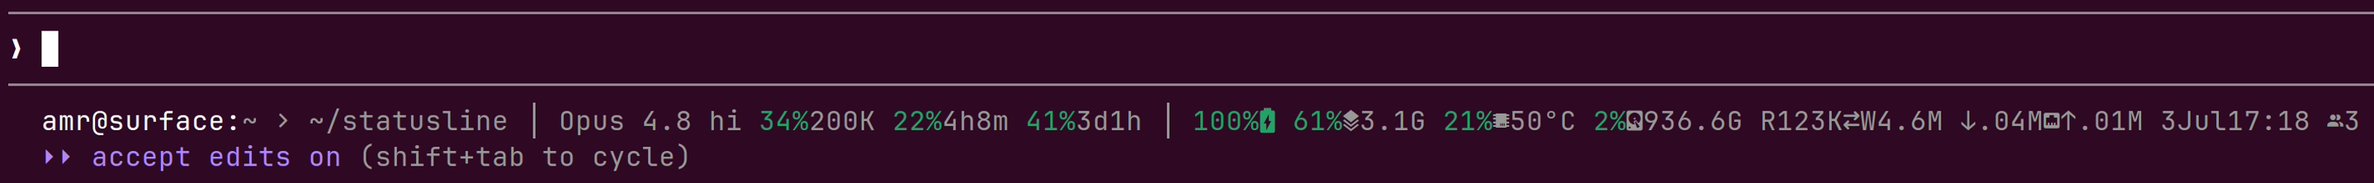
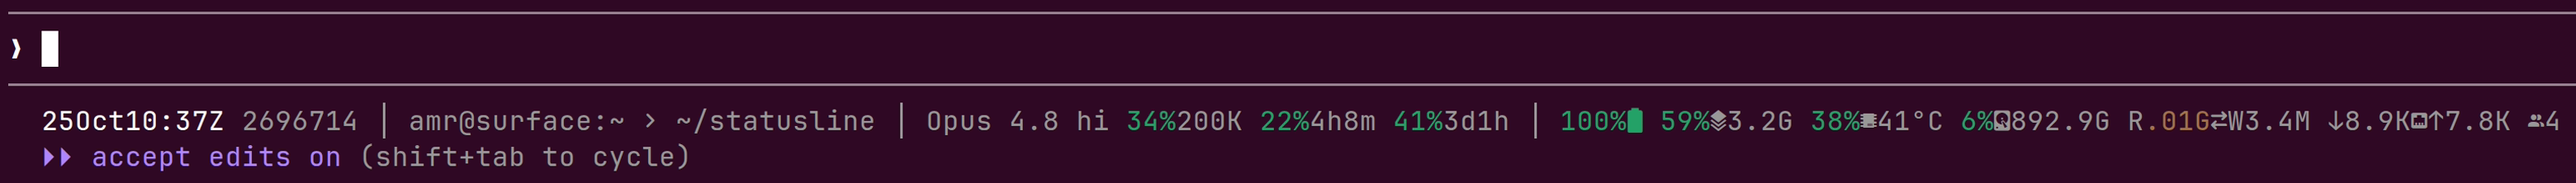
UTC date and Claude's pid lead the line

Changed region(s): [[0.0, 0.5946, 1.0, 0.7297], [0.0, 0.7838, 0.3095, 0.9189], [0.0, 0.1622, 0.0309, 0.3514]]

diff --git a/statusline.c b/statusline.c
@@ -508,6 +508,21 @@ static int rdfirst(const char *path, char *buf, size_t cap) { /* one read() */
     buf[n] = 0;
     return (int)n;
 }
+/* Claude's pid, the number in its cbus box: our parent, or the shell's
+ * parent if Claude ran us through sh -c.                                  */
+static int claude_pid(void) {
+    int p = (int)getppid();
+    char path[40], b[256];
+    snprintf(path, sizeof path, "/proc/%d/comm", p);
+    if (rdfirst(path, b, sizeof b) > 0 &&
+        (!strcmp(b, "sh\n") || !strcmp(b, "bash\n") || !strcmp(b, "dash\n"))) {
+        snprintf(path, sizeof path, "/proc/%d/stat", p);
+        const char *r = rdfirst(path, b, sizeof b) > 0 ? strrchr(b, ')') : NULL;
+        int pp;
+        if (r && sscanf(r, ") %*c %d", &pp) == 1) p = pp;
+    }
+    return p;
+}
 static const char *next_line(const char *p) {
     p = strchr(p, '\n');
     return p ? p + 1 : NULL;
@@ -1514,13 +1529,8 @@ int main(void) {
     }
 
     {
-        time_t tt = time(NULL);
-        struct tm tmv;
-        char dtbuf[32];
-        if (localtime_r(&tt, &tmv) && strftime(dtbuf, sizeof dtbuf, "%-d%b%H:%M", &tmv)) {
+        {
             SYS_SEP();
-            sb_c(&sys_, DIM, "%s", dtbuf);
-            sb_raw(&sys_, " ");
             sb_c(&sys_, DIM, "%s", G->sessions);
             ICON_SEP();
             sb_c(&sys_, DIM, "%d", rates.sessions);
@@ -1539,6 +1549,16 @@ int main(void) {
      * no stdout stdio (avoids its lazy-init ioctl/fcntl and writev)         */
     static const char SEG_SEP[] = " " DIM u8"│" RST " ";
     SB out = {0};
+    {   /* UTC date and Claude's pid lead the line (owner, 2026-10-25) */
+        time_t tt = time(NULL);
+        struct tm tmv;
+        char dtbuf[32];
+        if (gmtime_r(&tt, &tmv) && strftime(dtbuf, sizeof dtbuf, "%-d%b%H:%MZ", &tmv))
+            sb_c(&out, DIM, "%s", dtbuf);
+        sb_raw(&out, " ");
+        sb_c(&out, DIM, "%d", claude_pid());
+        sb_cat(&out, SEG_SEP, sizeof SEG_SEP - 1);
+    }
     sb_cat(&out, dirs.buf, dirs.len);
     sb_cat(&out, SEG_SEP, sizeof SEG_SEP - 1);
     sb_cat(&out, mid.buf, mid.len);

diff --git a/statusline.py b/statusline.py
@@ -625,6 +625,17 @@ def services_segment():
     return " ".join(parts)
 
 # ----------------------------------------------------------------- main ----
+def claude_pid():
+    # Claude's pid, the number in its cbus box: our parent, or the shell's
+    # parent if Claude ran us through sh -c.
+    p = os.getppid()
+    try:
+        if open(f"/proc/{p}/comm").read() in ("sh\n", "bash\n", "dash\n"):
+            p = int(open(f"/proc/{p}/stat").read().rsplit(")", 1)[1].split()[1])
+    except (OSError, ValueError, IndexError):
+        pass
+    return p
+
 def main():
     raw = sys.stdin.read()
     try:
@@ -785,13 +796,14 @@ def main():
                         c(G["net"], DIM) + ICON_SEP +
                         c(f"↑{human(txb)}", rate_color(txb)))
 
-    sysparts.append(c(time.strftime("%-d%b%H:%M"), DIM) + " " +
-                    c(G["sessions"], DIM) + ICON_SEP +
+    sysparts.append(c(G["sessions"], DIM) + ICON_SEP +
                     c(f"{sessions}", DIM))
 
     if sysparts:
         segs.append(" ".join(sysparts))
 
+    # UTC date and Claude's pid lead the line (owner, 2026-10-25)
+    segs.insert(0, c(time.strftime("%-d%b%H:%MZ", time.gmtime()), DIM) + " " + c(str(claude_pid()), DIM))
     dsep = c("│", DIM)
     sys.stdout.write((f" {dsep} ").join(segs))
 
